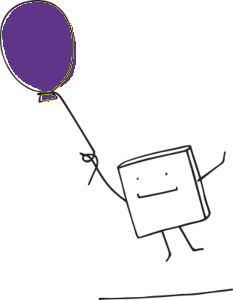
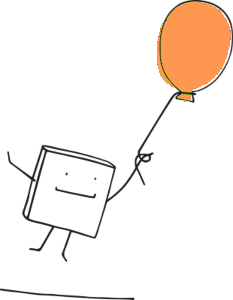
nouveau hero

diff --git a/css/base.css b/css/base.css
@@ -309,9 +309,7 @@ i[class^="fa"] {
   font-size: 2em;
   letter-spacing: 0.1em;
 }
-.container {
-  margin: 0 var(--MARGIN-x);
-}
+
 .shadow {
   box-shadow: 0 1rem 3rem var(--GRIS-TRANSPARENT-color) !important;
 }
@@ -1411,7 +1409,7 @@ main aside h2::after {
 
 .accueil {
   background:  var(--POUDRE-color) url(../images/pixel-joie.png) no-repeat;
-  background-position: 0 0;
+  background-position: 0 30%;
 }
 .idee {
   background:  url(../images/pixel-idee.png) no-repeat;
@@ -1423,29 +1421,24 @@ main aside h2::after {
 .hero {
   height: 50%;
   width: 100%;
-  display: grid;
-  grid-template-columns: repeat(2, 1fr);
-  justify-content: space-between;
+  display: flex;
+ justify-content: center;
 }
+
 .hero .animate-left {
   text-align: right;
 }
-.hero h1 {
-  color: var(--ROSE-color) !important;
-  text-align: center;
-  font-size: 5em;
-  margin-top: 4rem;
-  margin-bottom: 0;
-  text-transform: uppercase;
-}
-.hero  p {
-  color: FFA500 !important;
+.hero h1{ 
+  flex: 0 0 70%;
+  color: var(--NOIR-color);
   font-size: 2em;
   margin-bottom: 2em;
   font-family: var(--FONT-FAMILY-serif);
   text-align: center;
 }
-
+.hero span {
+  display: block;
+}
 p.cta {
   display: inline-block;
   background-color: var(--ROSE-color);

diff --git a/index.html b/index.html
@@ -80,13 +80,15 @@
 <main role="main" id="contenu">
 <div class="accueil">
 	<div class="hero container">
-		<div class="animate-left">		
-			<img src="images/irise.png" alt="Association I.R.I.S.E">
-		</div>
-		<div class="animate-right">
-			<h1 class="text-border-rose">I.R.I.S.E</h1>
-			<p>Innover dans la Rééducation Inclusive et Solidaire pour les Enfants</p>
-		</div>
+			<h1>
+				<img src="images/irise.png" alt="Association I.R.I.S.E" class="animate-left">
+				<span class="animate-right">Innover dans la Rééducation Inclusive et Solidaire pour les Enfants</span>
+			</h1>	
+			
+	
+			
+			
+	
 		
 	</div>
 </div>
